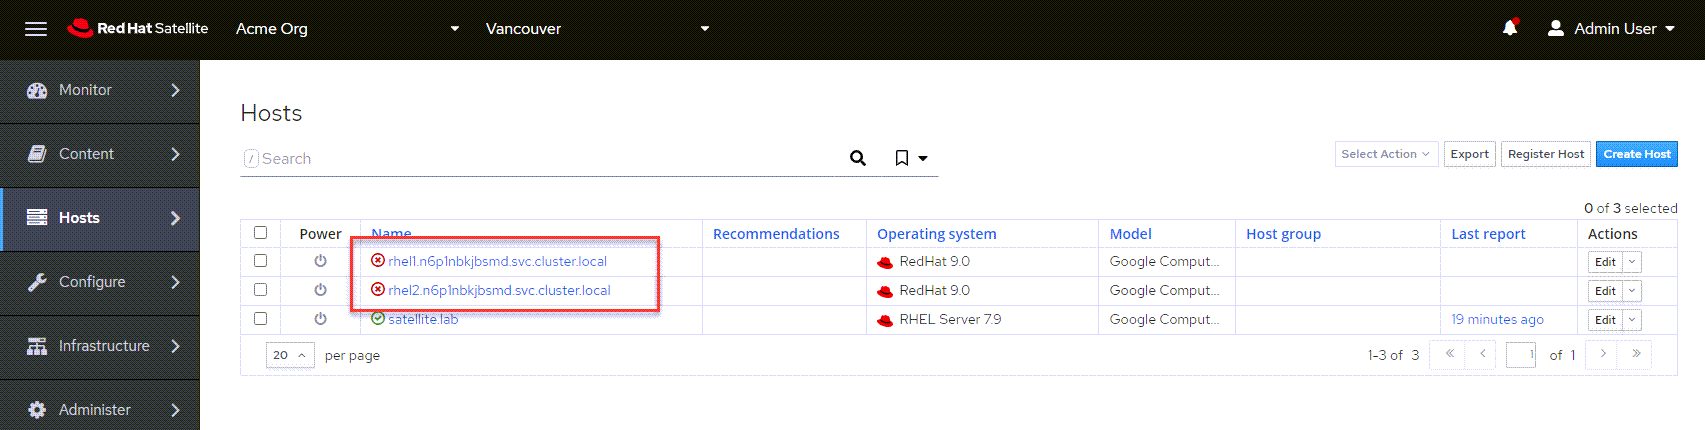
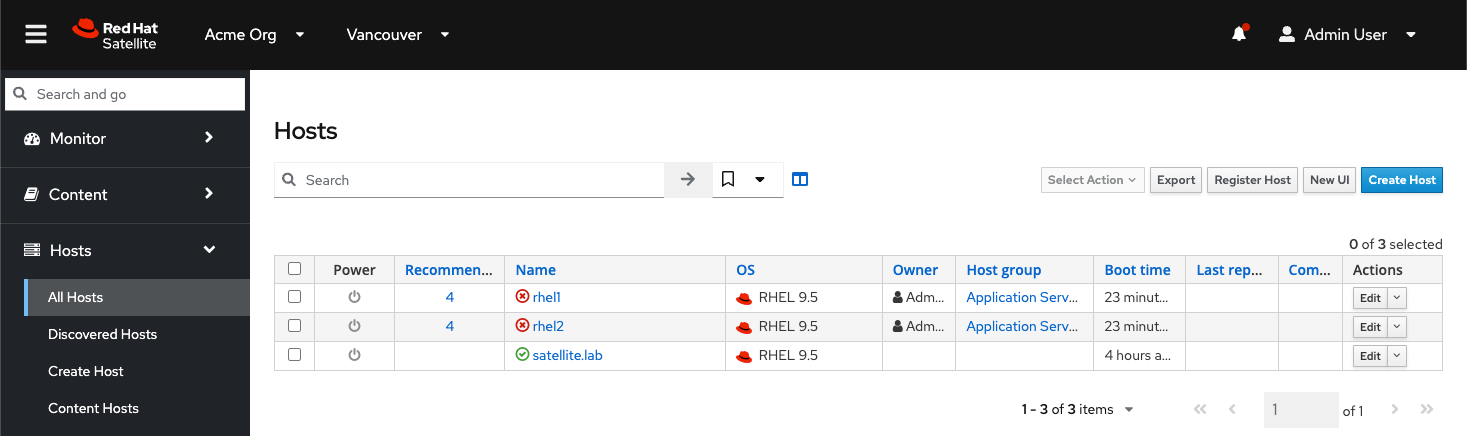
added iop assignment

diff --git a/satellite-basics-6-17/07-registerhost/assignment.md b/satellite-basics-6-17/07-registerhost/assignment.md
@@ -34,7 +34,7 @@ Now we'll register the hosts `rhel1` and `rhel2` to our Satellite server. We'll 
 
 It is also possible to generate a registration command from the Satellite WebUI but due to the limitations of DNS in this lab environment, we'll use the cli utility `hammer` to simplify the process.
 
-In our registration command, we'll specify that the new host should be added to the `Application Servers` host group we just created. As well, we'll ignore certificate errors (since we're using a self signed certificate) and we won't set up Insights.
+In our registration command, we'll specify that the new host should be added to the `Application Servers` host group we just created. As well, we'll ignore certificate errors (since we're using a self signed certificate) and we will set up Insights.
 
 Create a registration script
 ===
@@ -45,7 +45,7 @@ Click on the [button label="Satellite Server"](tab-0) tab.
 Click on the `run` button to run the following command in the `Satellite Server` terminal.
 
 ```bash,run
-hammer host-registration generate-command --hostgroup "Application Servers" --insecure 1 --setup-insights 0 --force 1
+hammer host-registration generate-command --hostgroup "Application Servers" --insecure 1 --setup-insights 1 --force 1
 ```
 
 The output of this command is a curl command similar to this (don't copy paste this):
@@ -62,7 +62,7 @@ In the interest of minimizing copy/paste errors, a script has been created below
 Make sure you are in the [button label="Satellite Server"](tab-0). Click on `run` in the right hand corner of the code block below.
 
 ```bash,run
-export REGISTRATION_SCRIPT=$(hammer host-registration generate-command --hostgroup "Application Servers" --insecure 1 --setup-insights 0 --force 1)
+export REGISTRATION_SCRIPT=$(hammer host-registration generate-command --hostgroup "Application Servers" --insecure 1 --setup-insights 1 --force 1)
 ssh -o StrictHostKeyChecking=no rhel1 $REGISTRATION_SCRIPT
 ssh -o StrictHostKeyChecking=no rhel2 $REGISTRATION_SCRIPT
 ```

diff --git a/satellite-basics-6-17/11-iop-advisor/assignment.md b/satellite-basics-6-17/11-iop-advisor/assignment.md
@@ -29,3 +29,38 @@ tabs:
 difficulty: ""
 enhanced_loading: null
 ---
+
+Red Hat Insights continuously analyzes platforms and applications to predict risk, recommend actions, and track costs so enterprises can better manage hybrid cloud environments.
+
+Insights advisor analyzes Red Hat Enterprise Linux systems for configuration problems that could degrade performance or render your system less secure. Red Hat Satellite provides access to the Insights advisor service in a connected and disconnected network topology. In this assignment we'll review how to use Insights advisor in a disconnected environment to analyze problems and remediate automatically.
+
+Review Insights advisor recommendations
+===
+Navigate to the `Recommendations` menu.
+
+![](../assets/insights-recommendations.png)
+
+In this menu we can see all the Insights advisor `Recommendations` for each host. Click on the "kebab" button to review the knowledge base article associated with an advisory.
+
+![](../assets/recommendations.png)
+
+Notice that each of these recommendations has an ansible playbook to remediate the the detected problem.
+
+![](../assets/associated-playbook.png)
+
+Automatically remediate the hosts
+===
+
+Let's remediate all the problems found by Insights advisor.
+1) Select all recommendations.
+2) Click `Remediate`.
+
+![](../assets/remediate-all-advisories.png)
+
+Review all the remediations and click `Remediate`.
+
+![](../assets/review-all-remediate.png)
+
+When all remediations have been applied, proceed to the next assignment.
+
+![](../assets/successfully-remediated.png)

diff --git a/satellite-basics-6-17/06-configure-host-group/assignment.md b/satellite-basics-6-17/06-configure-host-group/assignment.md
@@ -59,7 +59,7 @@ In the host group menu do the following:
 
 In the Ansible Roles menu do the following:
 
-1) Navigate to the second page of system roles.
+1) Navigate to the first page of system roles.
 
 2) Click on `rhel-system-roles.firewall`.
 
